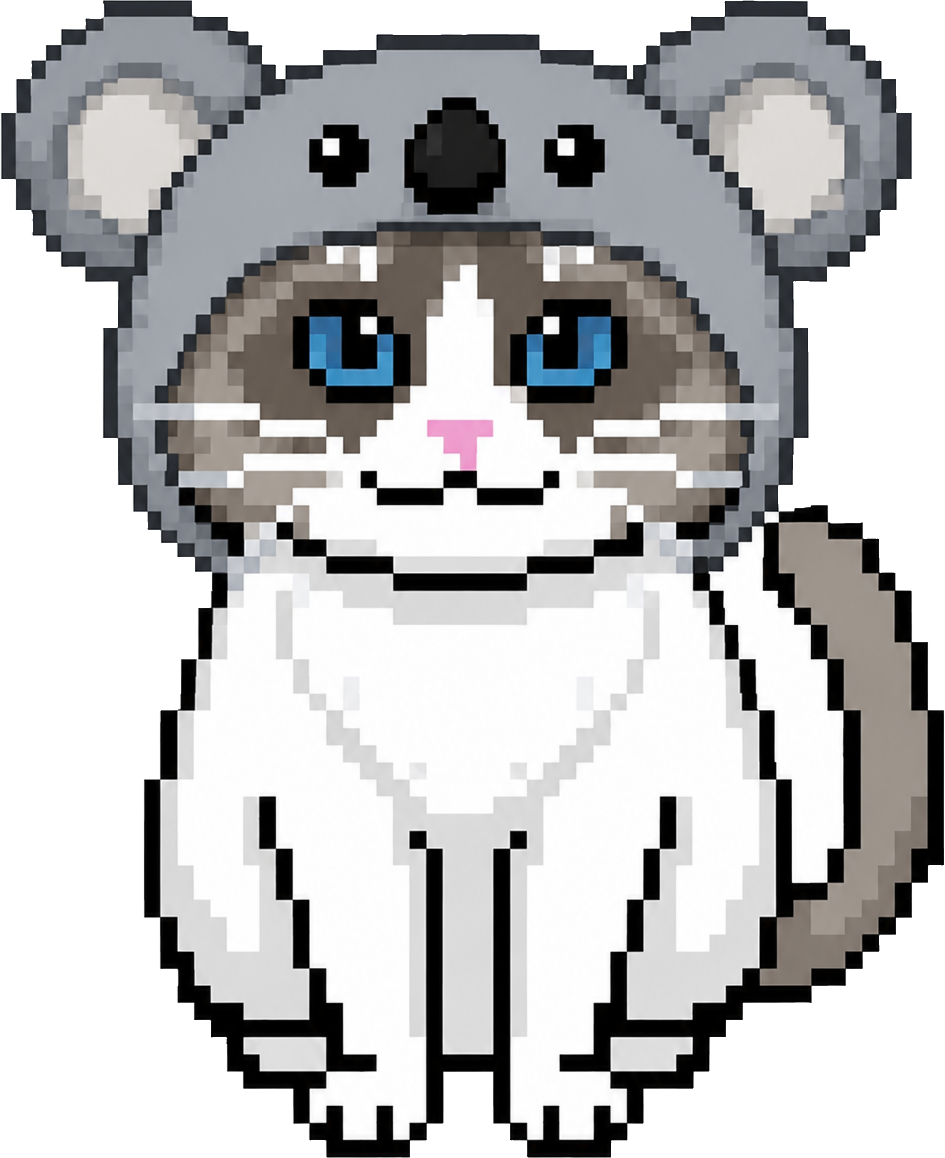
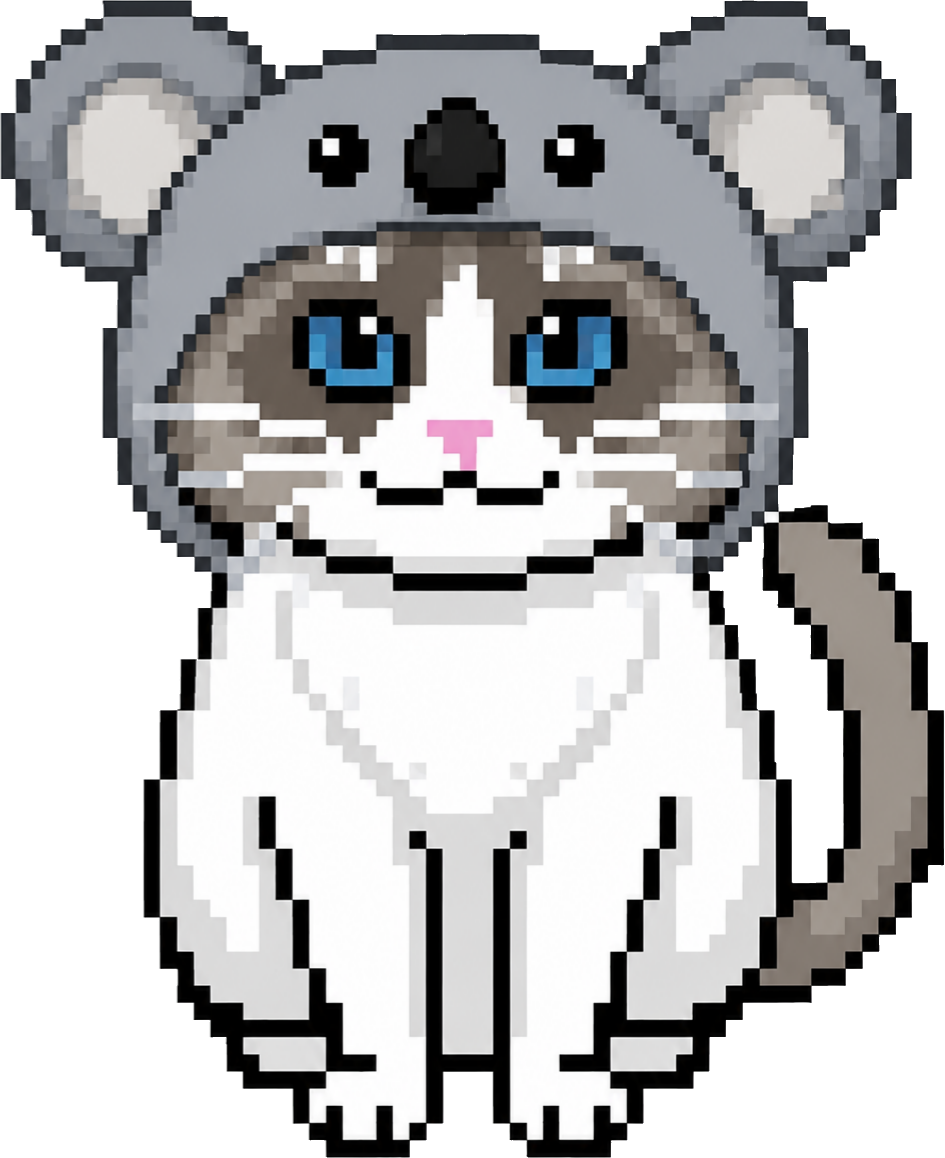
feat(skins): swap Koala art + add Deer and Cow to the costume gacha
Re-ran the asset pipeline against the new ErenCoala1.png so the Koala skin
picks up the updated hood art (only its three PNGs change among the 21
existing skins; the other 20 re-render byte-identical). Added Deer and Cow
(ErenDeer.png / ErenCow.png) as two new `rare` skins — the animal/Kitty
Costumes banner pools skins dynamically by category, so they flow into the
gacha, closet, and collection with no hardcoded-list or migration changes.

Both new skins auto-detected their eyes and tails. Verified all three
(Koala, Deer, Cow) in a faithful BlinkingEren harness: eye masks sit
centered on the irises, the closed-lid blink fully covers both eyes, and the
tail pivots at the rump so the base stays planted and the tip flicks (antlers
and horns did not fool the iris/tail detection). Bumped SKIN_V 8 -> 9 so the
SW refreshes the in-place Koala art.

Changed region(s): [[0.3069, 0.9326, 0.3376, 0.9637], [0.3069, 0.7772, 0.3376, 0.8083], [0.2148, 0.4974, 0.2455, 0.5285]]

diff --git a/src/lib/skinsData.ts b/src/lib/skinsData.ts
@@ -31,8 +31,10 @@ export const SKIN_DATA: SkinRenderData[] = [
   { id: 'axolotl', name: "Axolotl Eren", rarity: 'rare', aspect: 0.771, src: '/skins/axolotl_notail.png', tailSrc: '/skins/axolotl_tail.png', tailOrigin: '72.7% 81.1%', thumb: '/skins/axolotl.png', eyes: {"maskLeftA":"33.27%","maskLeftB":"52.32%","maskTop":"25.41%","maskW":"7.6%","maskH":"8.6%","lidLeftA":"32.82%","lidLeftB":"51.87%","lidTop":"25.01%","lidWidth":"8.51%","lidHeight":"9.4%","glintLeftA":"36%","glintLeftB":"38%","glintTopA":"14%","glintTopB":"14%","glintW":"26%"} },
   { id: 'sheep', name: "Sheep Eren", rarity: 'rare', aspect: 0.804, src: '/skins/sheep_notail.png', tailSrc: '/skins/sheep_tail.png', tailOrigin: '76.5% 82.4%', thumb: '/skins/sheep.png', eyes: {"maskLeftA":"36.08%","maskLeftB":"54.45%","maskTop":"27.91%","maskW":"7.6%","maskH":"8.6%","lidLeftA":"35.63%","lidLeftB":"54%","lidTop":"27.51%","lidWidth":"8.51%","lidHeight":"9.4%","glintLeftA":"36%","glintLeftB":"38%","glintTopA":"14%","glintTopB":"14%","glintW":"26%"} },
   { id: 'raccoon', name: "Raccoon Eren", rarity: 'rare', aspect: 0.693, src: '/skins/raccoon_notail.png', tailSrc: '/skins/raccoon_tail.png', tailOrigin: '69.6% 82.8%', thumb: '/skins/raccoon.png', eyes: {"maskLeftA":"33.07%","maskLeftB":"50.22%","maskTop":"29.89%","maskW":"7.6%","maskH":"8.6%","lidLeftA":"32.61%","lidLeftB":"49.77%","lidTop":"29.49%","lidWidth":"8.51%","lidHeight":"9.4%","glintLeftA":"36%","glintLeftB":"38%","glintTopA":"14%","glintTopB":"14%","glintW":"26%"} },
-  { id: 'koala', name: "Koala Eren", rarity: 'rare', aspect: 0.816, src: '/skins/koala_notail.png', tailSrc: '/skins/koala_tail.png', tailOrigin: '74.8% 81.5%', thumb: '/skins/koala.png', eyes: {"maskLeftA":"35.66%","maskLeftB":"54.49%","maskTop":"26.01%","maskW":"7.6%","maskH":"8.6%","lidLeftA":"35.21%","lidLeftB":"54.04%","lidTop":"25.61%","lidWidth":"8.51%","lidHeight":"9.4%","glintLeftA":"36%","glintLeftB":"38%","glintTopA":"14%","glintTopB":"14%","glintW":"26%"} },
+  { id: 'koala', name: "Koala Eren", rarity: 'rare', aspect: 0.816, src: '/skins/koala_notail.png', tailSrc: '/skins/koala_tail.png', tailOrigin: '74.2% 83.2%', thumb: '/skins/koala.png', eyes: {"maskLeftA":"35.66%","maskLeftB":"54.49%","maskTop":"26.01%","maskW":"7.6%","maskH":"8.6%","lidLeftA":"35.21%","lidLeftB":"54.04%","lidTop":"25.61%","lidWidth":"8.51%","lidHeight":"9.4%","glintLeftA":"36%","glintLeftB":"38%","glintTopA":"14%","glintTopB":"14%","glintW":"26%"} },
   { id: 'otter', name: "Otter Eren", rarity: 'rare', aspect: 0.714, src: '/skins/otter_notail.png', tailSrc: '/skins/otter_tail.png', tailOrigin: '67.6% 85.3%', thumb: '/skins/otter.png', eyes: {"maskLeftA":"32.02%","maskLeftB":"49.48%","maskTop":"26.15%","maskW":"7.6%","maskH":"8.6%","lidLeftA":"31.56%","lidLeftB":"49.03%","lidTop":"25.75%","lidWidth":"8.51%","lidHeight":"9.4%","glintLeftA":"36%","glintLeftB":"38%","glintTopA":"14%","glintTopB":"14%","glintW":"26%"} },
+  { id: 'deer', name: "Deer Eren", rarity: 'rare', aspect: 0.704, src: '/skins/deer_notail.png', tailSrc: '/skins/deer_tail.png', tailOrigin: '72% 83%', thumb: '/skins/deer.png', eyes: {"maskLeftA":"33.14%","maskLeftB":"50.56%","maskTop":"29.61%","maskW":"7.6%","maskH":"8.6%","lidLeftA":"32.68%","lidLeftB":"50.11%","lidTop":"29.21%","lidWidth":"8.51%","lidHeight":"9.4%","glintLeftA":"36%","glintLeftB":"38%","glintTopA":"14%","glintTopB":"14%","glintW":"26%"} },
+  { id: 'cow', name: "Cow Eren", rarity: 'rare', aspect: 0.657, src: '/skins/cow_notail.png', tailSrc: '/skins/cow_tail.png', tailOrigin: '69.8% 81.8%', thumb: '/skins/cow.png', eyes: {"maskLeftA":"33.78%","maskLeftB":"50.59%","maskTop":"28.17%","maskW":"7.6%","maskH":"8.6%","lidLeftA":"33.32%","lidLeftB":"50.14%","lidTop":"27.77%","lidWidth":"8.51%","lidHeight":"9.4%","glintLeftA":"36%","glintLeftB":"38%","glintTopA":"14%","glintTopB":"14%","glintW":"26%"} },
   { id: 'mouse', name: "Mouse Eren", rarity: 'legendary', aspect: 0.708, src: '/skins/mouse_notail.png', tailSrc: '/skins/mouse_tail.png', tailOrigin: '73.9% 80.2%', thumb: '/skins/mouse.png', eyes: {"maskLeftA":"32.52%","maskLeftB":"49.92%","maskTop":"26.7%","maskW":"7.6%","maskH":"8.6%","lidLeftA":"32.06%","lidLeftB":"49.46%","lidTop":"26.3%","lidWidth":"8.51%","lidHeight":"9.4%","glintLeftA":"36%","glintLeftB":"38%","glintTopA":"14%","glintTopB":"14%","glintW":"26%"} },
   { id: 'bunny', name: "Bunny Eren", rarity: 'legendary', aspect: 0.752, src: '/skins/bunny_notail.png', tailSrc: '/skins/bunny_tail.png', tailOrigin: '71.8% 84.7%', thumb: '/skins/bunny.png', eyes: {"maskLeftA":"34.94%","maskLeftB":"53.23%","maskTop":"28.16%","maskW":"7.6%","maskH":"8.6%","lidLeftA":"34.49%","lidLeftB":"52.77%","lidTop":"27.76%","lidWidth":"8.51%","lidHeight":"9.4%","glintLeftA":"36%","glintLeftB":"38%","glintTopA":"14%","glintTopB":"14%","glintW":"26%"} },
 ]

diff --git a/src/lib/skins.ts b/src/lib/skins.ts
@@ -47,7 +47,7 @@ export const CLASSIC_SKIN: SkinDef = {
 // Cache-buster for the skin PNGs. The SW serves images stale-while-revalidate,
 // so re-running the pipeline (which overwrites /skins/* in place) would keep
 // showing the OLD art — bump this whenever build_skins.cjs regenerates assets.
-const SKIN_V = '8'
+const SKIN_V = '9'
 const v = (p?: string) => (p ? `${p}?v=${SKIN_V}` : p)
 
 // The 21 gacha skins, from the auto-generated render data.